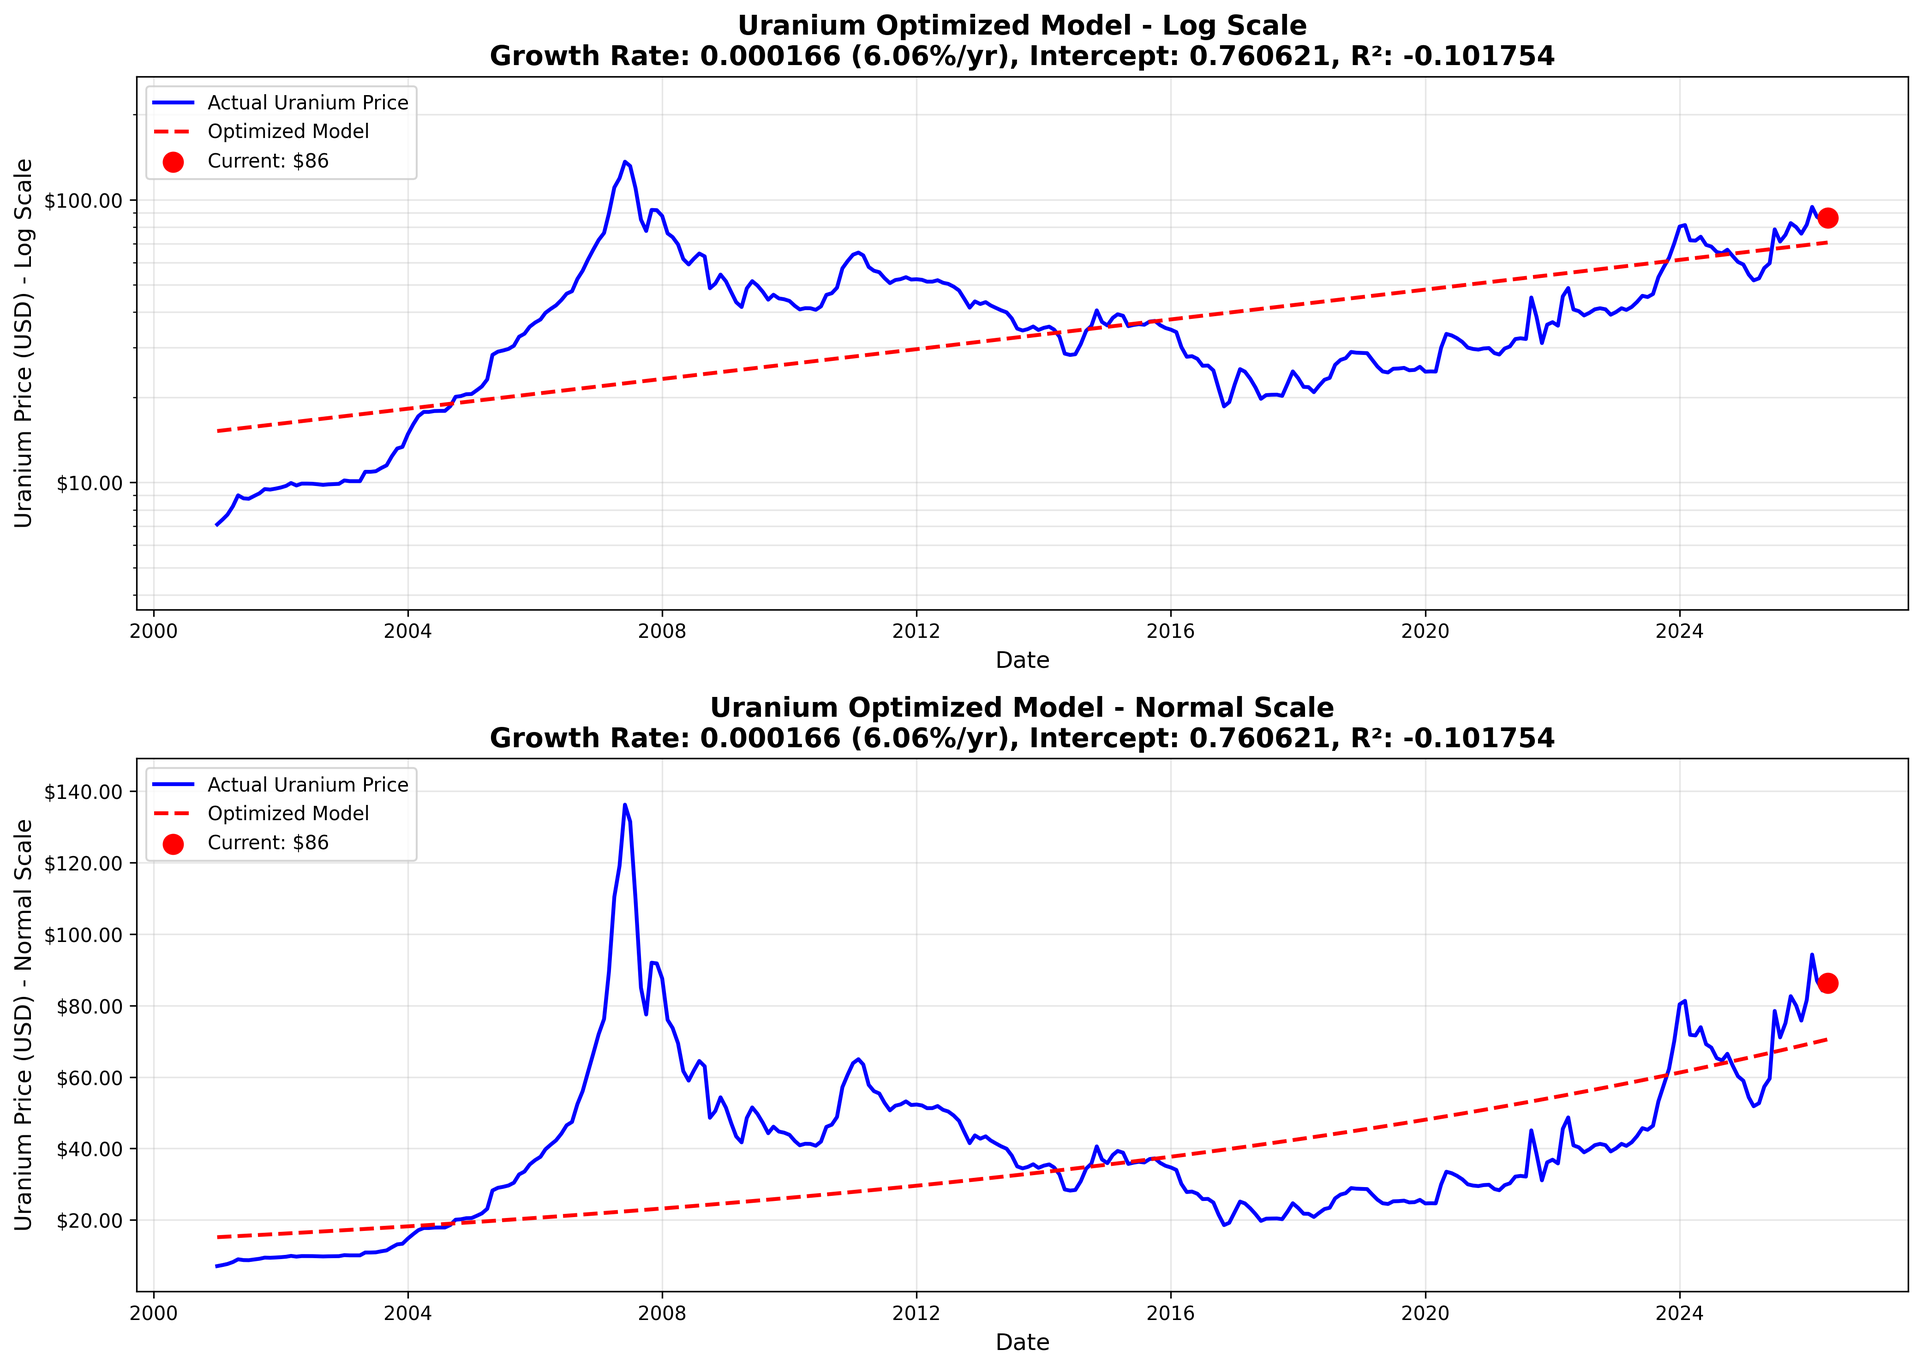
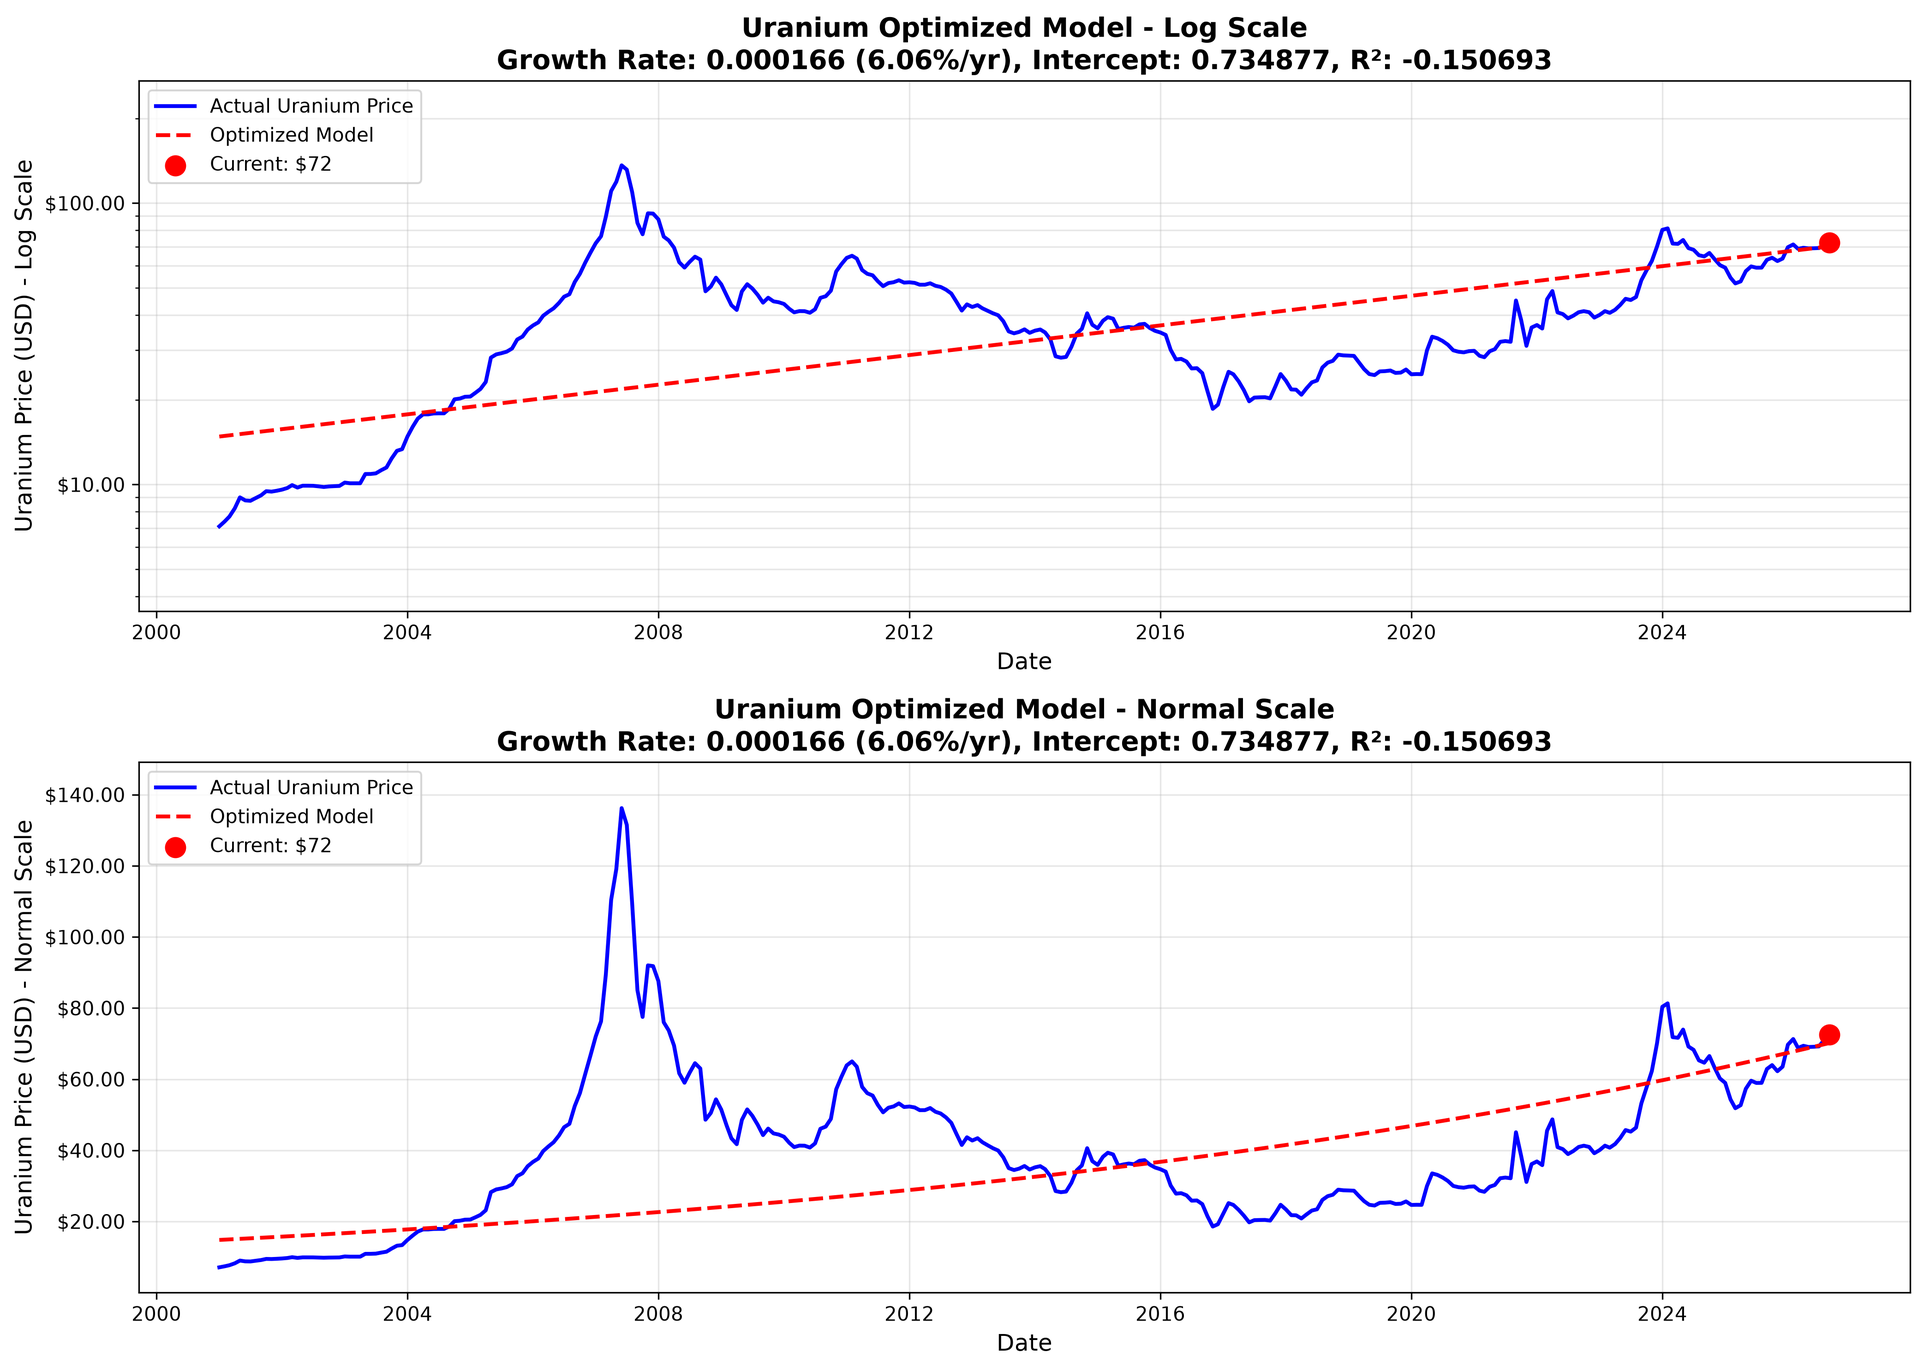
Switch uranium to IMF monthly spot data; spike check works on monthly data
- Uranium configs read Commodities/Uranium/Data/Uranium_all_time_price.csv,
  built from FRED/IMF "Global price of Uranium" (PURANUSDM), monthly
  1992-present (CSV gitignored, local only). Genesis pinned to 1990-01-01 to
  match earlier result offsets.
- Unpinned models' spike check now requires 5 years of older data instead of
  500 rows, so it runs on monthly series; summaries say "data points".
- Regenerated uranium and gold unpinned outputs.

diff --git a/Commodities/Alluminium/exponential_unpinned/optimize_intercept.py b/Commodities/Alluminium/exponential_unpinned/optimize_intercept.py
@@ -29,7 +29,7 @@ def spike_check(df, model):
         return None
     cutoff = df["Date"].iloc[-1] - pd.DateOffset(years=SPIKE_CHECK_YEARS)
     df_old = df[df["Date"] <= cutoff]
-    if len(df_old) < 500:
+    if len(df_old) < 24 or (df_old["Date"].iloc[-1] - df_old["Date"].iloc[0]).days < 5 * 365:
         return None
     m_old = fit(df_old, FIXED_GROWTH_RATE)
     fair_today = float(fair_price(m_old, df["Days"].iloc[-1]))
@@ -73,7 +73,7 @@ def write_results(df, model, v, spike, results_file):
         f"{CURRENCY_NAME.upper()} UNPINNED EXPONENTIAL MODEL",
         "=" * 50,
         f"Analysis Date: {datetime.now():%Y-%m-%d %H:%M:%S}",
-        f"Data: {start:%Y-%m-%d} to {df['Date'].iloc[-1]:%Y-%m-%d} ({len(df)} days)",
+        f"Data: {start:%Y-%m-%d} to {df['Date'].iloc[-1]:%Y-%m-%d} ({len(df)} data points)",
         "",
         "FIT (log scale, growth and level fitted together)",
         "-" * 30,
@@ -134,7 +134,7 @@ def main():
     print("=" * 40)
     df = load_data()
     print(f"Data: {df['Date'].iloc[0]:%Y-%m-%d} to {df['Date'].iloc[-1]:%Y-%m-%d} "
-          f"({len(df)} days, start date {'from config' if START_DATE else 'auto'})")
+          f"({len(df)} data points, start date {'from config' if START_DATE else 'auto'})")
     model = fit(df, FIXED_GROWTH_RATE)
     v = valuation(df, model)
     spike = spike_check(df, model)

diff --git a/Commodities/Copper/exponential_unpinned/optimize_intercept.py b/Commodities/Copper/exponential_unpinned/optimize_intercept.py
@@ -29,7 +29,7 @@ def spike_check(df, model):
         return None
     cutoff = df["Date"].iloc[-1] - pd.DateOffset(years=SPIKE_CHECK_YEARS)
     df_old = df[df["Date"] <= cutoff]
-    if len(df_old) < 500:
+    if len(df_old) < 24 or (df_old["Date"].iloc[-1] - df_old["Date"].iloc[0]).days < 5 * 365:
         return None
     m_old = fit(df_old, FIXED_GROWTH_RATE)
     fair_today = float(fair_price(m_old, df["Days"].iloc[-1]))
@@ -73,7 +73,7 @@ def write_results(df, model, v, spike, results_file):
         f"{CURRENCY_NAME.upper()} UNPINNED EXPONENTIAL MODEL",
         "=" * 50,
         f"Analysis Date: {datetime.now():%Y-%m-%d %H:%M:%S}",
-        f"Data: {start:%Y-%m-%d} to {df['Date'].iloc[-1]:%Y-%m-%d} ({len(df)} days)",
+        f"Data: {start:%Y-%m-%d} to {df['Date'].iloc[-1]:%Y-%m-%d} ({len(df)} data points)",
         "",
         "FIT (log scale, growth and level fitted together)",
         "-" * 30,
@@ -134,7 +134,7 @@ def main():
     print("=" * 40)
     df = load_data()
     print(f"Data: {df['Date'].iloc[0]:%Y-%m-%d} to {df['Date'].iloc[-1]:%Y-%m-%d} "
-          f"({len(df)} days, start date {'from config' if START_DATE else 'auto'})")
+          f"({len(df)} data points, start date {'from config' if START_DATE else 'auto'})")
     model = fit(df, FIXED_GROWTH_RATE)
     v = valuation(df, model)
     spike = spike_check(df, model)

diff --git a/Commodities/Crude_oil/exponential_unpinned/optimize_intercept.py b/Commodities/Crude_oil/exponential_unpinned/optimize_intercept.py
@@ -29,7 +29,7 @@ def spike_check(df, model):
         return None
     cutoff = df["Date"].iloc[-1] - pd.DateOffset(years=SPIKE_CHECK_YEARS)
     df_old = df[df["Date"] <= cutoff]
-    if len(df_old) < 500:
+    if len(df_old) < 24 or (df_old["Date"].iloc[-1] - df_old["Date"].iloc[0]).days < 5 * 365:
         return None
     m_old = fit(df_old, FIXED_GROWTH_RATE)
     fair_today = float(fair_price(m_old, df["Days"].iloc[-1]))
@@ -73,7 +73,7 @@ def write_results(df, model, v, spike, results_file):
         f"{CURRENCY_NAME.upper()} UNPINNED EXPONENTIAL MODEL",
         "=" * 50,
         f"Analysis Date: {datetime.now():%Y-%m-%d %H:%M:%S}",
-        f"Data: {start:%Y-%m-%d} to {df['Date'].iloc[-1]:%Y-%m-%d} ({len(df)} days)",
+        f"Data: {start:%Y-%m-%d} to {df['Date'].iloc[-1]:%Y-%m-%d} ({len(df)} data points)",
         "",
         "FIT (log scale, growth and level fitted together)",
         "-" * 30,
@@ -134,7 +134,7 @@ def main():
     print("=" * 40)
     df = load_data()
     print(f"Data: {df['Date'].iloc[0]:%Y-%m-%d} to {df['Date'].iloc[-1]:%Y-%m-%d} "
-          f"({len(df)} days, start date {'from config' if START_DATE else 'auto'})")
+          f"({len(df)} data points, start date {'from config' if START_DATE else 'auto'})")
     model = fit(df, FIXED_GROWTH_RATE)
     v = valuation(df, model)
     spike = spike_check(df, model)

diff --git a/Commodities/Gold/exponential_unpinned/optimize_intercept.py b/Commodities/Gold/exponential_unpinned/optimize_intercept.py
@@ -29,7 +29,7 @@ def spike_check(df, model):
         return None
     cutoff = df["Date"].iloc[-1] - pd.DateOffset(years=SPIKE_CHECK_YEARS)
     df_old = df[df["Date"] <= cutoff]
-    if len(df_old) < 500:
+    if len(df_old) < 24 or (df_old["Date"].iloc[-1] - df_old["Date"].iloc[0]).days < 5 * 365:
         return None
     m_old = fit(df_old, FIXED_GROWTH_RATE)
     fair_today = float(fair_price(m_old, df["Days"].iloc[-1]))
@@ -73,7 +73,7 @@ def write_results(df, model, v, spike, results_file):
         f"{CURRENCY_NAME.upper()} UNPINNED EXPONENTIAL MODEL",
         "=" * 50,
         f"Analysis Date: {datetime.now():%Y-%m-%d %H:%M:%S}",
-        f"Data: {start:%Y-%m-%d} to {df['Date'].iloc[-1]:%Y-%m-%d} ({len(df)} days)",
+        f"Data: {start:%Y-%m-%d} to {df['Date'].iloc[-1]:%Y-%m-%d} ({len(df)} data points)",
         "",
         "FIT (log scale, growth and level fitted together)",
         "-" * 30,
@@ -134,7 +134,7 @@ def main():
     print("=" * 40)
     df = load_data()
     print(f"Data: {df['Date'].iloc[0]:%Y-%m-%d} to {df['Date'].iloc[-1]:%Y-%m-%d} "
-          f"({len(df)} days, start date {'from config' if START_DATE else 'auto'})")
+          f"({len(df)} data points, start date {'from config' if START_DATE else 'auto'})")
     model = fit(df, FIXED_GROWTH_RATE)
     v = valuation(df, model)
     spike = spike_check(df, model)

diff --git a/Commodities/Lead/exponential_unpinned/optimize_intercept.py b/Commodities/Lead/exponential_unpinned/optimize_intercept.py
@@ -29,7 +29,7 @@ def spike_check(df, model):
         return None
     cutoff = df["Date"].iloc[-1] - pd.DateOffset(years=SPIKE_CHECK_YEARS)
     df_old = df[df["Date"] <= cutoff]
-    if len(df_old) < 500:
+    if len(df_old) < 24 or (df_old["Date"].iloc[-1] - df_old["Date"].iloc[0]).days < 5 * 365:
         return None
     m_old = fit(df_old, FIXED_GROWTH_RATE)
     fair_today = float(fair_price(m_old, df["Days"].iloc[-1]))
@@ -73,7 +73,7 @@ def write_results(df, model, v, spike, results_file):
         f"{CURRENCY_NAME.upper()} UNPINNED EXPONENTIAL MODEL",
         "=" * 50,
         f"Analysis Date: {datetime.now():%Y-%m-%d %H:%M:%S}",
-        f"Data: {start:%Y-%m-%d} to {df['Date'].iloc[-1]:%Y-%m-%d} ({len(df)} days)",
+        f"Data: {start:%Y-%m-%d} to {df['Date'].iloc[-1]:%Y-%m-%d} ({len(df)} data points)",
         "",
         "FIT (log scale, growth and level fitted together)",
         "-" * 30,
@@ -134,7 +134,7 @@ def main():
     print("=" * 40)
     df = load_data()
     print(f"Data: {df['Date'].iloc[0]:%Y-%m-%d} to {df['Date'].iloc[-1]:%Y-%m-%d} "
-          f"({len(df)} days, start date {'from config' if START_DATE else 'auto'})")
+          f"({len(df)} data points, start date {'from config' if START_DATE else 'auto'})")
     model = fit(df, FIXED_GROWTH_RATE)
     v = valuation(df, model)
     spike = spike_check(df, model)

diff --git a/Commodities/Natural_gas/exponential_unpinned/optimize_intercept.py b/Commodities/Natural_gas/exponential_unpinned/optimize_intercept.py
@@ -29,7 +29,7 @@ def spike_check(df, model):
         return None
     cutoff = df["Date"].iloc[-1] - pd.DateOffset(years=SPIKE_CHECK_YEARS)
     df_old = df[df["Date"] <= cutoff]
-    if len(df_old) < 500:
+    if len(df_old) < 24 or (df_old["Date"].iloc[-1] - df_old["Date"].iloc[0]).days < 5 * 365:
         return None
     m_old = fit(df_old, FIXED_GROWTH_RATE)
     fair_today = float(fair_price(m_old, df["Days"].iloc[-1]))
@@ -73,7 +73,7 @@ def write_results(df, model, v, spike, results_file):
         f"{CURRENCY_NAME.upper()} UNPINNED EXPONENTIAL MODEL",
         "=" * 50,
         f"Analysis Date: {datetime.now():%Y-%m-%d %H:%M:%S}",
-        f"Data: {start:%Y-%m-%d} to {df['Date'].iloc[-1]:%Y-%m-%d} ({len(df)} days)",
+        f"Data: {start:%Y-%m-%d} to {df['Date'].iloc[-1]:%Y-%m-%d} ({len(df)} data points)",
         "",
         "FIT (log scale, growth and level fitted together)",
         "-" * 30,
@@ -134,7 +134,7 @@ def main():
     print("=" * 40)
     df = load_data()
     print(f"Data: {df['Date'].iloc[0]:%Y-%m-%d} to {df['Date'].iloc[-1]:%Y-%m-%d} "
-          f"({len(df)} days, start date {'from config' if START_DATE else 'auto'})")
+          f"({len(df)} data points, start date {'from config' if START_DATE else 'auto'})")
     model = fit(df, FIXED_GROWTH_RATE)
     v = valuation(df, model)
     spike = spike_check(df, model)

diff --git a/Commodities/Nickel/exponential_unpinned/optimize_intercept.py b/Commodities/Nickel/exponential_unpinned/optimize_intercept.py
@@ -29,7 +29,7 @@ def spike_check(df, model):
         return None
     cutoff = df["Date"].iloc[-1] - pd.DateOffset(years=SPIKE_CHECK_YEARS)
     df_old = df[df["Date"] <= cutoff]
-    if len(df_old) < 500:
+    if len(df_old) < 24 or (df_old["Date"].iloc[-1] - df_old["Date"].iloc[0]).days < 5 * 365:
         return None
     m_old = fit(df_old, FIXED_GROWTH_RATE)
     fair_today = float(fair_price(m_old, df["Days"].iloc[-1]))
@@ -73,7 +73,7 @@ def write_results(df, model, v, spike, results_file):
         f"{CURRENCY_NAME.upper()} UNPINNED EXPONENTIAL MODEL",
         "=" * 50,
         f"Analysis Date: {datetime.now():%Y-%m-%d %H:%M:%S}",
-        f"Data: {start:%Y-%m-%d} to {df['Date'].iloc[-1]:%Y-%m-%d} ({len(df)} days)",
+        f"Data: {start:%Y-%m-%d} to {df['Date'].iloc[-1]:%Y-%m-%d} ({len(df)} data points)",
         "",
         "FIT (log scale, growth and level fitted together)",
         "-" * 30,
@@ -134,7 +134,7 @@ def main():
     print("=" * 40)
     df = load_data()
     print(f"Data: {df['Date'].iloc[0]:%Y-%m-%d} to {df['Date'].iloc[-1]:%Y-%m-%d} "
-          f"({len(df)} days, start date {'from config' if START_DATE else 'auto'})")
+          f"({len(df)} data points, start date {'from config' if START_DATE else 'auto'})")
     model = fit(df, FIXED_GROWTH_RATE)
     v = valuation(df, model)
     spike = spike_check(df, model)

diff --git a/Commodities/Palladium/exponential_unpinned/optimize_intercept.py b/Commodities/Palladium/exponential_unpinned/optimize_intercept.py
@@ -29,7 +29,7 @@ def spike_check(df, model):
         return None
     cutoff = df["Date"].iloc[-1] - pd.DateOffset(years=SPIKE_CHECK_YEARS)
     df_old = df[df["Date"] <= cutoff]
-    if len(df_old) < 500:
+    if len(df_old) < 24 or (df_old["Date"].iloc[-1] - df_old["Date"].iloc[0]).days < 5 * 365:
         return None
     m_old = fit(df_old, FIXED_GROWTH_RATE)
     fair_today = float(fair_price(m_old, df["Days"].iloc[-1]))
@@ -73,7 +73,7 @@ def write_results(df, model, v, spike, results_file):
         f"{CURRENCY_NAME.upper()} UNPINNED EXPONENTIAL MODEL",
         "=" * 50,
         f"Analysis Date: {datetime.now():%Y-%m-%d %H:%M:%S}",
-        f"Data: {start:%Y-%m-%d} to {df['Date'].iloc[-1]:%Y-%m-%d} ({len(df)} days)",
+        f"Data: {start:%Y-%m-%d} to {df['Date'].iloc[-1]:%Y-%m-%d} ({len(df)} data points)",
         "",
         "FIT (log scale, growth and level fitted together)",
         "-" * 30,
@@ -134,7 +134,7 @@ def main():
     print("=" * 40)
     df = load_data()
     print(f"Data: {df['Date'].iloc[0]:%Y-%m-%d} to {df['Date'].iloc[-1]:%Y-%m-%d} "
-          f"({len(df)} days, start date {'from config' if START_DATE else 'auto'})")
+          f"({len(df)} data points, start date {'from config' if START_DATE else 'auto'})")
     model = fit(df, FIXED_GROWTH_RATE)
     v = valuation(df, model)
     spike = spike_check(df, model)

diff --git a/Commodities/Platinum/exponential_unpinned/optimize_intercept.py b/Commodities/Platinum/exponential_unpinned/optimize_intercept.py
@@ -29,7 +29,7 @@ def spike_check(df, model):
         return None
     cutoff = df["Date"].iloc[-1] - pd.DateOffset(years=SPIKE_CHECK_YEARS)
     df_old = df[df["Date"] <= cutoff]
-    if len(df_old) < 500:
+    if len(df_old) < 24 or (df_old["Date"].iloc[-1] - df_old["Date"].iloc[0]).days < 5 * 365:
         return None
     m_old = fit(df_old, FIXED_GROWTH_RATE)
     fair_today = float(fair_price(m_old, df["Days"].iloc[-1]))
@@ -73,7 +73,7 @@ def write_results(df, model, v, spike, results_file):
         f"{CURRENCY_NAME.upper()} UNPINNED EXPONENTIAL MODEL",
         "=" * 50,
         f"Analysis Date: {datetime.now():%Y-%m-%d %H:%M:%S}",
-        f"Data: {start:%Y-%m-%d} to {df['Date'].iloc[-1]:%Y-%m-%d} ({len(df)} days)",
+        f"Data: {start:%Y-%m-%d} to {df['Date'].iloc[-1]:%Y-%m-%d} ({len(df)} data points)",
         "",
         "FIT (log scale, growth and level fitted together)",
         "-" * 30,
@@ -134,7 +134,7 @@ def main():
     print("=" * 40)
     df = load_data()
     print(f"Data: {df['Date'].iloc[0]:%Y-%m-%d} to {df['Date'].iloc[-1]:%Y-%m-%d} "
-          f"({len(df)} days, start date {'from config' if START_DATE else 'auto'})")
+          f"({len(df)} data points, start date {'from config' if START_DATE else 'auto'})")
     model = fit(df, FIXED_GROWTH_RATE)
     v = valuation(df, model)
     spike = spike_check(df, model)

diff --git a/Commodities/SPHCF/exponential_unpinned/optimize_intercept.py b/Commodities/SPHCF/exponential_unpinned/optimize_intercept.py
@@ -29,7 +29,7 @@ def spike_check(df, model):
         return None
     cutoff = df["Date"].iloc[-1] - pd.DateOffset(years=SPIKE_CHECK_YEARS)
     df_old = df[df["Date"] <= cutoff]
-    if len(df_old) < 500:
+    if len(df_old) < 24 or (df_old["Date"].iloc[-1] - df_old["Date"].iloc[0]).days < 5 * 365:
         return None
     m_old = fit(df_old, FIXED_GROWTH_RATE)
     fair_today = float(fair_price(m_old, df["Days"].iloc[-1]))
@@ -73,7 +73,7 @@ def write_results(df, model, v, spike, results_file):
         f"{CURRENCY_NAME.upper()} UNPINNED EXPONENTIAL MODEL",
         "=" * 50,
         f"Analysis Date: {datetime.now():%Y-%m-%d %H:%M:%S}",
-        f"Data: {start:%Y-%m-%d} to {df['Date'].iloc[-1]:%Y-%m-%d} ({len(df)} days)",
+        f"Data: {start:%Y-%m-%d} to {df['Date'].iloc[-1]:%Y-%m-%d} ({len(df)} data points)",
         "",
         "FIT (log scale, growth and level fitted together)",
         "-" * 30,
@@ -134,7 +134,7 @@ def main():
     print("=" * 40)
     df = load_data()
     print(f"Data: {df['Date'].iloc[0]:%Y-%m-%d} to {df['Date'].iloc[-1]:%Y-%m-%d} "
-          f"({len(df)} days, start date {'from config' if START_DATE else 'auto'})")
+          f"({len(df)} data points, start date {'from config' if START_DATE else 'auto'})")
     model = fit(df, FIXED_GROWTH_RATE)
     v = valuation(df, model)
     spike = spike_check(df, model)

diff --git a/Commodities/Silver/exponential_unpinned/optimize_intercept.py b/Commodities/Silver/exponential_unpinned/optimize_intercept.py
@@ -29,7 +29,7 @@ def spike_check(df, model):
         return None
     cutoff = df["Date"].iloc[-1] - pd.DateOffset(years=SPIKE_CHECK_YEARS)
     df_old = df[df["Date"] <= cutoff]
-    if len(df_old) < 500:
+    if len(df_old) < 24 or (df_old["Date"].iloc[-1] - df_old["Date"].iloc[0]).days < 5 * 365:
         return None
     m_old = fit(df_old, FIXED_GROWTH_RATE)
     fair_today = float(fair_price(m_old, df["Days"].iloc[-1]))
@@ -73,7 +73,7 @@ def write_results(df, model, v, spike, results_file):
         f"{CURRENCY_NAME.upper()} UNPINNED EXPONENTIAL MODEL",
         "=" * 50,
         f"Analysis Date: {datetime.now():%Y-%m-%d %H:%M:%S}",
-        f"Data: {start:%Y-%m-%d} to {df['Date'].iloc[-1]:%Y-%m-%d} ({len(df)} days)",
+        f"Data: {start:%Y-%m-%d} to {df['Date'].iloc[-1]:%Y-%m-%d} ({len(df)} data points)",
         "",
         "FIT (log scale, growth and level fitted together)",
         "-" * 30,
@@ -134,7 +134,7 @@ def main():
     print("=" * 40)
     df = load_data()
     print(f"Data: {df['Date'].iloc[0]:%Y-%m-%d} to {df['Date'].iloc[-1]:%Y-%m-%d} "
-          f"({len(df)} days, start date {'from config' if START_DATE else 'auto'})")
+          f"({len(df)} data points, start date {'from config' if START_DATE else 'auto'})")
     model = fit(df, FIXED_GROWTH_RATE)
     v = valuation(df, model)
     spike = spike_check(df, model)

diff --git a/Commodities/Sprutt/exponential_unpinned/optimize_intercept.py b/Commodities/Sprutt/exponential_unpinned/optimize_intercept.py
@@ -29,7 +29,7 @@ def spike_check(df, model):
         return None
     cutoff = df["Date"].iloc[-1] - pd.DateOffset(years=SPIKE_CHECK_YEARS)
     df_old = df[df["Date"] <= cutoff]
-    if len(df_old) < 500:
+    if len(df_old) < 24 or (df_old["Date"].iloc[-1] - df_old["Date"].iloc[0]).days < 5 * 365:
         return None
     m_old = fit(df_old, FIXED_GROWTH_RATE)
     fair_today = float(fair_price(m_old, df["Days"].iloc[-1]))
@@ -73,7 +73,7 @@ def write_results(df, model, v, spike, results_file):
         f"{CURRENCY_NAME.upper()} UNPINNED EXPONENTIAL MODEL",
         "=" * 50,
         f"Analysis Date: {datetime.now():%Y-%m-%d %H:%M:%S}",
-        f"Data: {start:%Y-%m-%d} to {df['Date'].iloc[-1]:%Y-%m-%d} ({len(df)} days)",
+        f"Data: {start:%Y-%m-%d} to {df['Date'].iloc[-1]:%Y-%m-%d} ({len(df)} data points)",
         "",
         "FIT (log scale, growth and level fitted together)",
         "-" * 30,
@@ -134,7 +134,7 @@ def main():
     print("=" * 40)
     df = load_data()
     print(f"Data: {df['Date'].iloc[0]:%Y-%m-%d} to {df['Date'].iloc[-1]:%Y-%m-%d} "
-          f"({len(df)} days, start date {'from config' if START_DATE else 'auto'})")
+          f"({len(df)} data points, start date {'from config' if START_DATE else 'auto'})")
     model = fit(df, FIXED_GROWTH_RATE)
     v = valuation(df, model)
     spike = spike_check(df, model)
